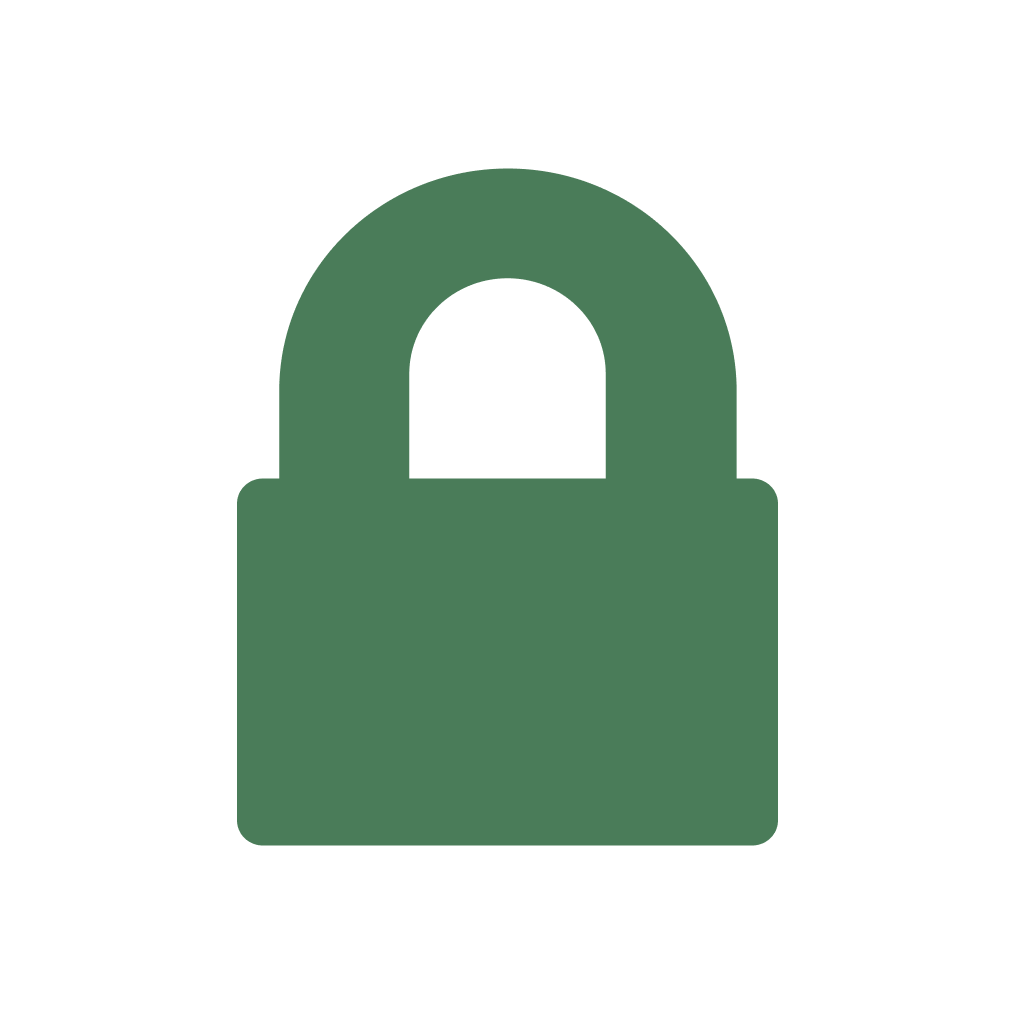
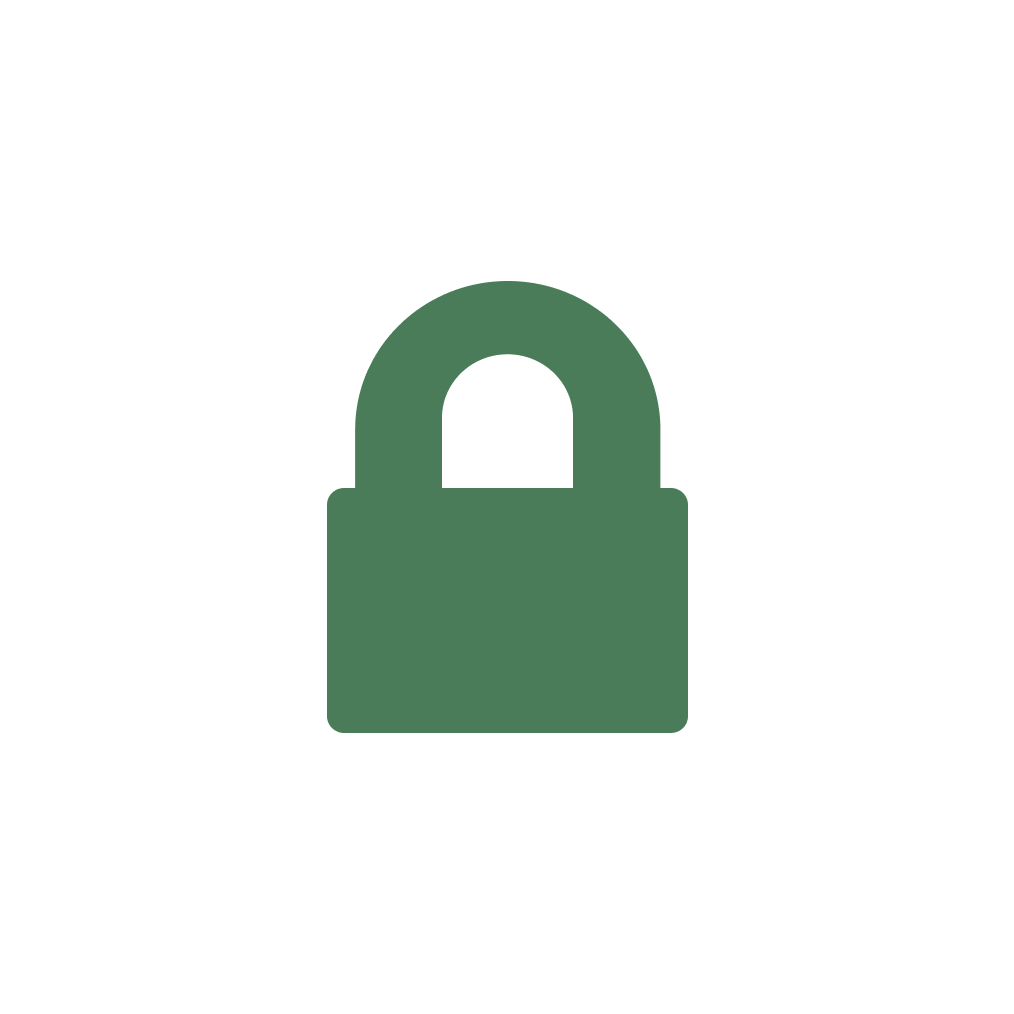
Many updates and fixes

Changed region(s): [[0.214, 0.1529, 0.7643, 0.856]]

diff --git a/util/registerPushNotifications.js b/util/registerPushNotifications.js
@@ -1,45 +1,73 @@
-import * as Notifications from 'expo-notifications';
-import * as Device from 'expo-device';
-import Constants from 'expo-constants';
-import { DOMAIN } from '../constants/ServerConstants';
-import { Platform } from 'react-native';
+import Constants from "expo-constants";
+import * as Device from "expo-device";
+import { Platform } from "react-native";
+import { DOMAIN } from "../constants/ServerConstants";
 
-export async function registerPushNotifications({jsonWebToken, currentTokens, active=true}) {
-  if (!Device.isDevice) return; // Only works on real hardware
+export async function registerPushNotifications({
+  jsonWebToken,
+  currentTokens,
+  active = true,
+}) {
+  // Hard stop if we are in Expo Go on Android or not on a physical device
+  if (
+    !Device.isDevice ||
+    Constants.executionEnvironment === "storeClient" ||
+    !Notifications
+  ) {
+    return null;
+  }
 
-  if (Platform.OS === 'android') {
-      await Notifications.setNotificationChannelAsync('default', {
-        name: 'default',
-        importance: Notifications.AndroidImportance.MAX,
-        vibrationPattern: [0, 250, 250, 250],
-        lightColor: '#FF231F7C',
-      });
-    }
+  let Notifications;
+  try {
+    // Only require expo-notifications dynamically when we know we are safe (iOS or Dev Build)
+    Notifications = require("expo-notifications");
+  } catch (e) {
+    console.log("Notifications module could not be loaded.");
+    return null;
+  }
+
+  if (Platform.OS === "android") {
+    await Notifications.setNotificationChannelAsync("default", {
+      name: "default",
+      importance: Notifications.AndroidImportance.MAX,
+      vibrationPattern: [0, 250, 250, 250],
+      lightColor: "#FF231F7C",
+    });
+  }
 
   const { status: existingStatus } = await Notifications.getPermissionsAsync();
   let finalStatus = existingStatus;
-  
-  if (existingStatus !== 'granted') {
+
+  if (existingStatus !== "granted") {
     const { status } = await Notifications.requestPermissionsAsync();
     finalStatus = status;
   }
 
-  if (finalStatus !== 'granted') return;
+  if (finalStatus !== "granted") return;
 
   const projectId = Constants.expoConfig?.extra?.eas?.projectId;
   const token = (await Notifications.getExpoPushTokenAsync({ projectId })).data;
 
-  if (active && currentTokens?.some(t => t.token === token && t.active === true)) return; // Already registered this token with server, no need to send again
+  if (
+    active &&
+    currentTokens?.some((t) => t.token === token && t.active === true)
+  )
+    return; // Already registered this token with server, no need to send again
 
-  console.log('Registering token: status: ', active, token);
+  console.log("Registering token: status: ", active, token);
 
   // Send this token to your backend via a POST request
-  await fetch(DOMAIN + '/save-push-token', {
-    method: 'POST',
+  await fetch(DOMAIN + "/save-push-token", {
+    method: "POST",
     headers: {
-        'Content-Type': 'application/json',
+      "Content-Type": "application/json",
     },
-    body: JSON.stringify({ pushToken: token, deviceInfo: Device.modelName, jsonWebToken, active}),
+    body: JSON.stringify({
+      pushToken: token,
+      deviceInfo: Device.modelName,
+      jsonWebToken,
+      active,
+    }),
   });
 
   return token;

diff --git a/util/authBiometrics.ts b/util/authBiometrics.ts
@@ -1,6 +1,7 @@
 import * as LocalAuthentication from "expo-local-authentication";
 import * as SecureStore from "expo-secure-store";
 import { useEffect, useState } from "react";
+import { Platform } from "react-native";
 import sendData from "./server/sendData";
 
 interface BiometricAuthResult {
@@ -52,8 +53,12 @@ export async function authenticateWithBiometrics(): Promise<BiometricAuthResult>
     }
 
     // 2. Trigger the native Face ID / Touch ID prompt
+    // const biometricResult = await LocalAuthentication.authenticateAsync({
+    //   promptMessage: "Log in securely with Face ID",
+    //   fallbackLabel: "Use Passcode",
+    // });
     const biometricResult = await LocalAuthentication.authenticateAsync({
-      promptMessage: "Log in securely with Face ID",
+      promptMessage: "Log in securely", // Changed from "Face ID"
       fallbackLabel: "Use Passcode",
     });
 
@@ -121,14 +126,34 @@ export function useBiometricLabel() {
       // 1 = FINGERPRINT (Touch ID / Android Fingerprint)
       // 2 = FACIAL_RECOGNITION (Face ID / Android Face Unlock)
       // 3 = IRIS (Android Iris Scan)
-      if (types.includes(2)) {
-        setBiometricName("Face ID");
-      } else if (types.includes(1)) {
-        setBiometricName("Touch ID"); // Or 'Fingerprint' depending on your design preference
-      } else if (types.includes(3)) {
-        setBiometricName("Iris Scan");
+      // if (types.includes(2)) {
+      //   setBiometricName("Face ID");
+      // } else if (types.includes(1)) {
+      //   setBiometricName("Touch ID"); // Or 'Fingerprint' depending on your design preference
+      // } else if (types.includes(3)) {
+      //   setBiometricName("Iris Scan");
+      // } else {
+      //   setBiometricName("Biometrics");
+      // }
+      if (Platform.OS === "ios") {
+        // iOS specific naming
+        if (types.includes(2)) {
+          setBiometricName("Face ID");
+        } else if (types.includes(1)) {
+          setBiometricName("Touch ID");
+        } else {
+          setBiometricName("Biometrics");
+        }
       } else {
-        setBiometricName("Biometrics");
+        // Android often supports BOTH fingerprint and face unlock.
+        // Prioritize Fingerprint if available, since under-display scanners are physical touch.
+        if (types.includes(1)) {
+          setBiometricName("Fingerprint");
+        } else if (types.includes(2)) {
+          setBiometricName("Face Unlock");
+        } else {
+          setBiometricName("Biometrics");
+        }
       }
     }
 

diff --git a/app/onboarding/index.jsx b/app/onboarding/index.jsx
@@ -36,18 +36,25 @@ import sendData from "../../util/server/sendData";
 
 const isExpoGo = Constants.executionEnvironment === "storeClient";
 
-let GoogleSignin = null;
-let isSuccessResponse = null;
-let isErrorWithCode = null;
-let statusCodes = null;
+//let GoogleSignin = null;
+//let isSuccessResponse = null;
+//let isErrorWithCode = null;
+//let statusCodes = null;
+// if (!isExpoGo) {
+//   ({
+//     GoogleSignin,
+//     isSuccessResponse,
+//     isErrorWithCode,
+//     statusCodes
+//   } = require("@react-native-google-signin/google-signin"));
+// }
 
+let GoogleSignin = null;
 if (!isExpoGo) {
-  ({
-    GoogleSignin,
-    isSuccessResponse,
-    isErrorWithCode,
-    statusCodes,
-  } = require("@react-native-google-signin/google-signin"));
+  try {
+    GoogleSignin =
+      require("@react-native-google-signin/google-signin").GoogleSignin;
+  } catch (e) {}
 }
 
 const screenWidth = Dimensions.get("window").width;
@@ -155,13 +162,22 @@ const OnboardingIndex = () => {
   };
 
   const handleGoogleSignIn = async (biometrics = false) => {
-    if (isExpoGo || !GoogleSignin) return;
+    if (isExpoGo || !GoogleSignin) {
+      alertRef.current.showAlert(
+        "Google Sign-In is not supported in Expo Go on Android.",
+        false,
+      );
+      return;
+    }
     try {
       setGoogleLoading(true);
       await GoogleSignin.hasPlayServices();
       const response = await GoogleSignin.signIn();
       // debugging - send server the response to display
       //sendData("/debuglog", {response: JSON.stringify(response)});
+      const GoogleSigninModule = require("@react-native-google-signin/google-signin");
+      const { GoogleSignin, isSuccessResponse, isErrorWithCode, statusCodes } =
+        GoogleSigninModule;
 
       if (isSuccessResponse(response)) {
         const { idToken, user } = response.data;

diff --git a/app/dashboard/profile.tsx b/app/dashboard/profile.tsx
@@ -201,7 +201,8 @@ const Profile = () => {
             <ImageContain
               source={greenlock}
               size={100}
-              style={{ opacity: 0.5, position: "absolute", top: 0 }}
+              style={{ position: "absolute", top: 0 }}
+              imgStyle={{ opacity: 0.5 }}
             />
             <Spacer height={55} />
             <Text
@@ -268,6 +269,7 @@ const Profile = () => {
                 value={username}
                 onChangeText={(v) => setUsername(v)}
                 placeholder="Username"
+                placeholderTextColor={"#555555"}
                 style={{
                   height: 60,
                   color: "#adadad",
@@ -308,6 +310,7 @@ const Profile = () => {
                 placeholder="Email"
                 value={email}
                 onChangeText={(v) => setEmail(v)}
+                placeholderTextColor={"#555555"}
                 style={{
                   height: 60,
                   color: "#adadad",
@@ -373,6 +376,7 @@ const Profile = () => {
                 secureTextEntry={true}
                 value={password}
                 onChangeText={(v) => setPassword(v)}
+                placeholderTextColor={"#555555"}
                 style={{
                   height: 60,
                   color: "#adadad",
@@ -389,6 +393,7 @@ const Profile = () => {
             <View style={{ gap: 10 }}>
               <TextInput
                 placeholder="New password"
+                placeholderTextColor={"#555555"}
                 secureTextEntry={true}
                 value={newPassword}
                 onChangeText={(v) => setNewPassword(v)}

diff --git a/app/onboarding/createUsername.jsx b/app/onboarding/createUsername.jsx
@@ -23,10 +23,17 @@ import { generateUniqueId } from "../../util/uniqueId";
 
 const isExpoGo = Constants.executionEnvironment === "storeClient";
 
-let GoogleSignin = null;
+// let GoogleSignin = null;
 
+// if (!isExpoGo) {
+//   ({ GoogleSignin } = require("@react-native-google-signin/google-signin"));
+// }
+let GoogleSignin = null;
 if (!isExpoGo) {
-  ({ GoogleSignin } = require("@react-native-google-signin/google-signin"));
+  try {
+    GoogleSignin =
+      require("@react-native-google-signin/google-signin").GoogleSignin;
+  } catch (e) {}
 }
 
 const screenWidth = Dimensions.get("window").width;

diff --git a/app/_layout.tsx b/app/_layout.tsx
@@ -34,10 +34,18 @@ LogBox.ignoreAllLogs(false);
 
 const isExpoGo = Constants.executionEnvironment === "storeClient";
 
-let GoogleSignin: any = null;
+// let GoogleSignin: any = null;
 
+// if (!isExpoGo) {
+//   ({ GoogleSignin } = require("@react-native-google-signin/google-signin"));
+// }
+
+let GoogleSignin: any = null;
 if (!isExpoGo) {
-  ({ GoogleSignin } = require("@react-native-google-signin/google-signin"));
+  try {
+    GoogleSignin =
+      require("@react-native-google-signin/google-signin").GoogleSignin;
+  } catch (e) {}
 }
 
 export {

diff --git a/components/ConfirmMenu.jsx b/components/ConfirmMenu.jsx
@@ -10,7 +10,7 @@ import Animated, {
 import Colors from "../constants/Colors";
 import Spacer from "./Spacer";
 
-const { width: screenWidth, height: screenHeight } = Dimensions.get("window");
+const { width: screenWidth, height: screenHeight } = Dimensions.get("screen");
 
 // USE THIS TO USE IN OTHER FILES:
 
